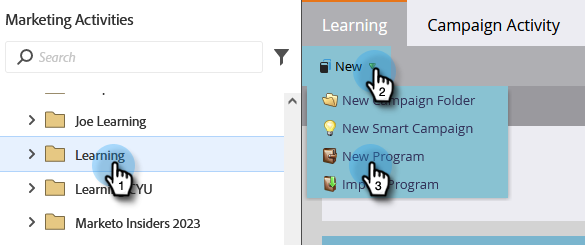
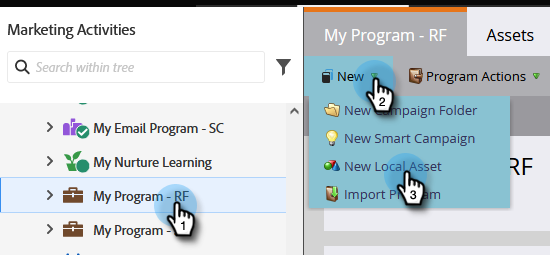
screenshot fix

diff --git a/help/marketo/getting-started/quick-wins/landing-page-with-a-form.md b/help/marketo/getting-started/quick-wins/landing-page-with-a-form.md
@@ -98,7 +98,7 @@ Nicely done! Now that we have created a program, let's move on and create some c
 
 ## STEP 3: Create a Landing Page and Add Your Form {#step-create-a-landing-page-and-add-your-form}
 
-1. With your program selected, click **New** and then **New Local Asset**.
+1. With your program selected, click the **New** drop-down and select **New Local Asset**.
 
    ![](assets/landing-page-with-a-form-15.png)
 
